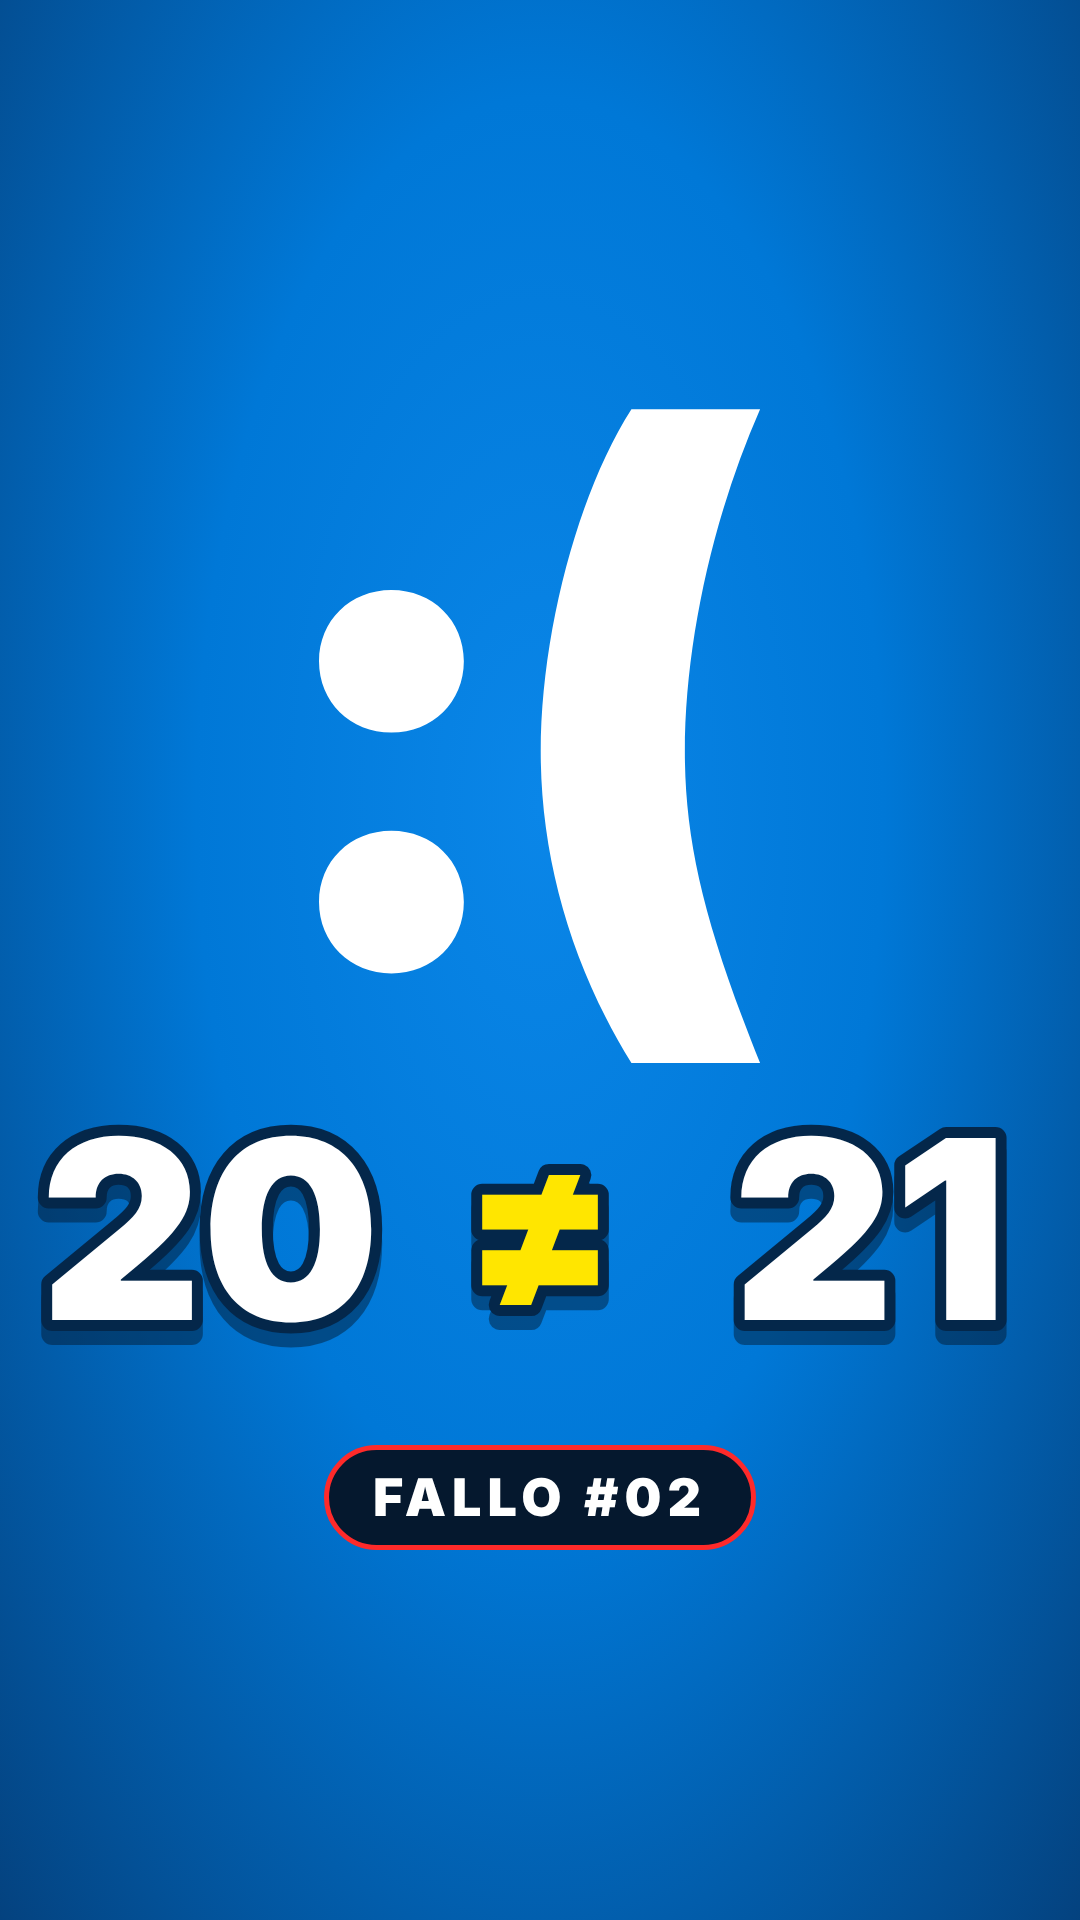
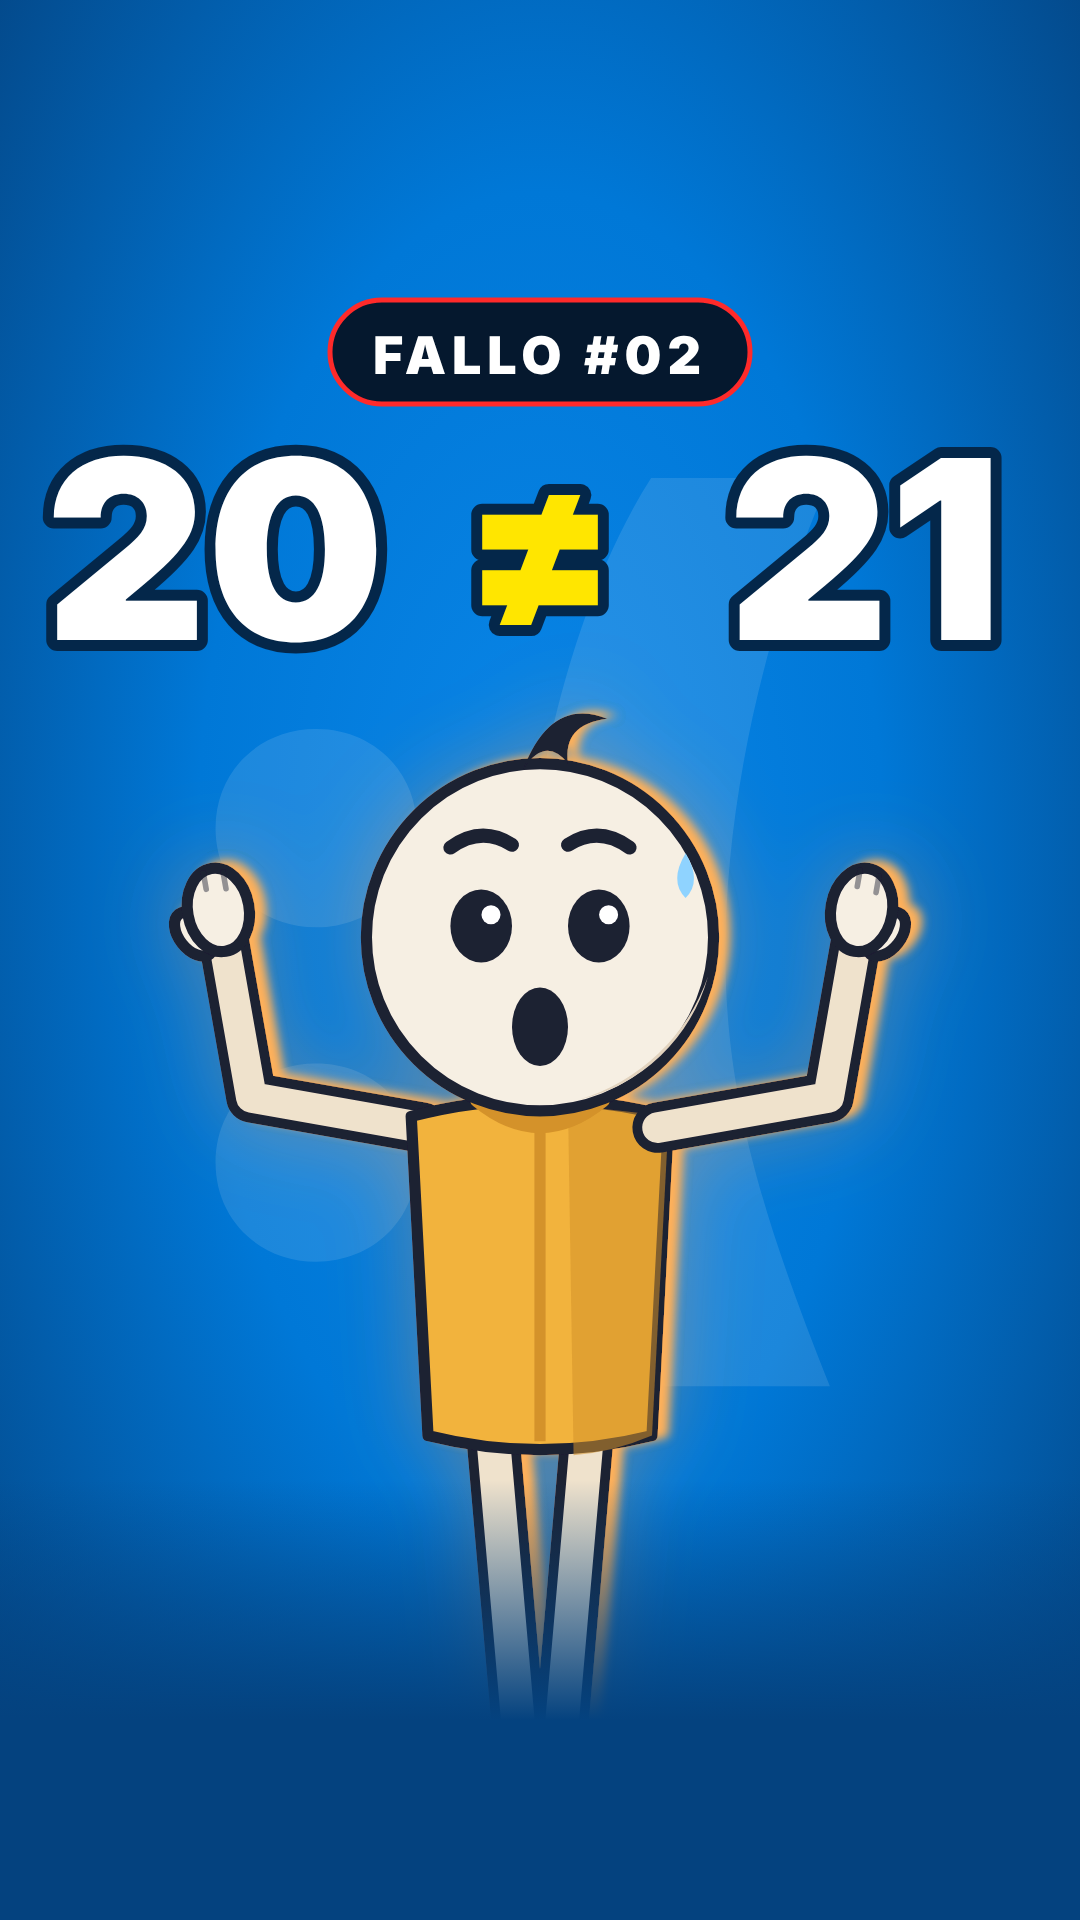
Fallo #02 thumbnail: vector Pip, 20 != 21, blue screen
Claude-Session: https://claude.ai/code/session_01UvSALjBVpBVemw6p1kxsgc

diff --git a/what-if-studio/src/fallo02/Thumb.tsx b/what-if-studio/src/fallo02/Thumb.tsx
@@ -1,0 +1,29 @@
+import React from 'react';
+import { AbsoluteFill } from 'remotion';
+import { Hero, basePose, LOOKS, KitDefs, SetDefs, Pose } from '../engine';
+import { HEAVY } from '../components/motion';
+
+// Thumbnail for Fallo #02: the blue screen's sad face as texture, the idea (20 != 21) and Pip in shock, all centred.
+//   npx remotion still src/index.ts Fallo02Thumb out/fallo02/thumb.png
+const POSE: Pose = { ...basePose, x: 540, y: 1430, scale: 2.8, yaw: 0, look: 0, expr: 'shock', armL: { a: 100, b: 70 }, armR: { a: 100, b: 70 }, headTilt: 0 };
+
+export const Fallo02Thumb: React.FC = () => (
+  <AbsoluteFill style={{ background: 'radial-gradient(ellipse at 50% 45%, #0A86E8 0%, #0078D7 45%, #04427F 100%)' }}>
+    <svg width={1080} height={1920} viewBox="0 0 1080 1920" textAnchor="middle" fontFamily={HEAVY} fontWeight={900}>
+      <KitDefs />
+      <SetDefs />
+      <text x={470} y={1250} fontSize={1000} fill="#FFF" opacity={0.11} letterSpacing={-40}>:(</text>
+      <Hero look={LOOKS.pip} pose={POSE} shadow={0.35} />
+      <defs><linearGradient id="fadeLegs" x1="0" y1="0" x2="0" y2="1"><stop offset="0" stopColor="#04427F" stopOpacity="0" /><stop offset="1" stopColor="#04427F" stopOpacity="1" /></linearGradient></defs>
+      <rect x={0} y={1480} width={1080} height={240} fill="url(#fadeLegs)" />
+      <rect x={0} y={1720} width={1080} height={200} fill="#04427F" />
+      <g paintOrder="stroke" stroke="#04274A" strokeWidth={22} strokeLinejoin="round">
+        <text x={215} y={640} fontSize={250} fill="#FFF">20</text>
+        <text x={540} y={625} fontSize={220} fill="#FFE600">≠</text>
+        <text x={865} y={640} fontSize={250} fill="#FFF">21</text>
+      </g>
+      <rect x={330} y={300} width={420} height={104} rx={52} fill="#05182E" stroke="#FF2A2A" strokeWidth={5} />
+      <text x={540} y={374} fontSize={52} fill="#FFF" letterSpacing={6}>FALLO #02</text>
+    </svg>
+  </AbsoluteFill>
+);

diff --git a/what-if-studio/src/Root.tsx b/what-if-studio/src/Root.tsx
@@ -1,5 +1,6 @@
 import React from 'react';
 import { Composition } from 'remotion';
+import { Fallo02Thumb } from './fallo02/Thumb';
 import './engine/fonts';
 import { STUDIO } from './studio.config';
 import { EPISODES } from './episodes';
@@ -31,6 +32,7 @@ export const Root: React.FC = () => {
         width={THERAC.width}
         height={THERAC.height}
       />
+      <Composition id="Fallo02Thumb" component={Fallo02Thumb} durationInFrames={1} fps={30} width={1080} height={1920} />
       <Composition id="Fallo02" component={Fallo02} durationInFrames={Math.round(FALLO02.duration * FALLO02.fps)} fps={FALLO02.fps} width={FALLO02.width} height={FALLO02.height} />
     </>
   );
